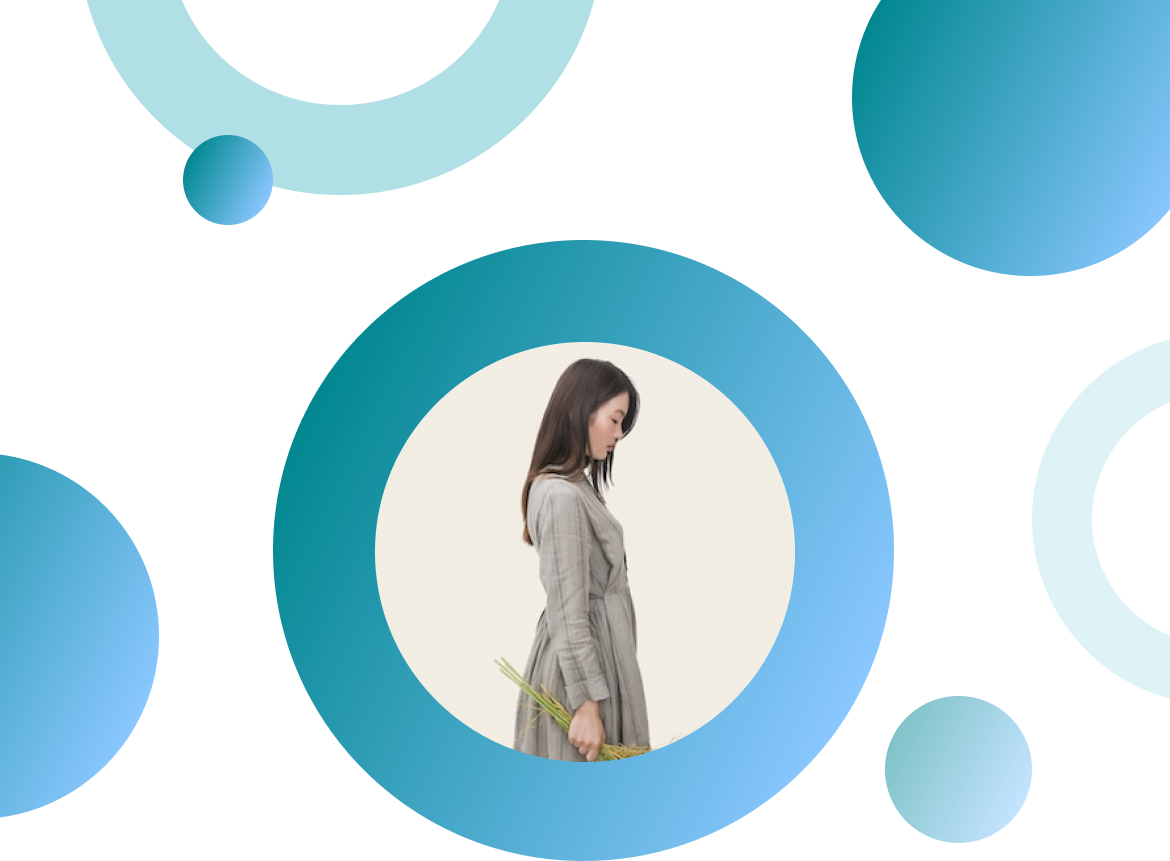
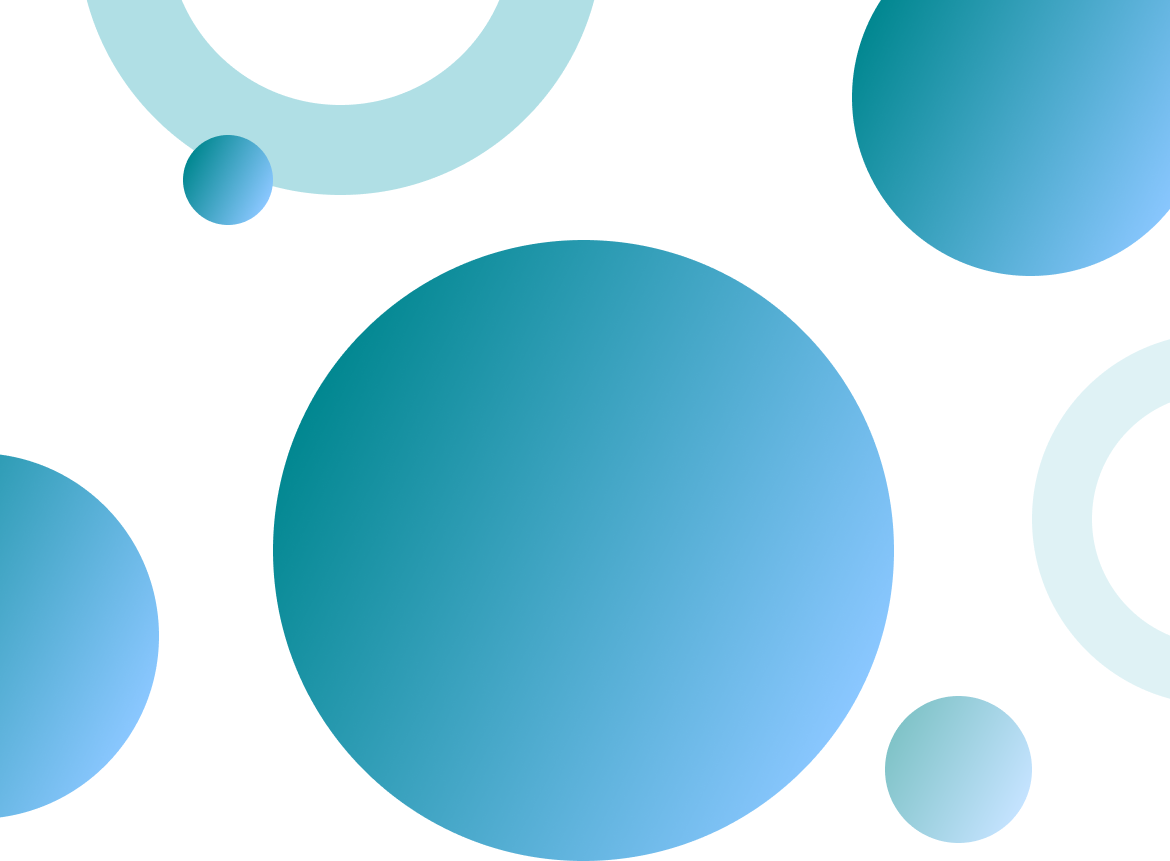
fixing profile screen

Changed region(s): [[0.3077, 0.3926, 0.6769, 0.9059]]

diff --git a/src/screens/ProfileScreen/ProfileScreen.tsx b/src/screens/ProfileScreen/ProfileScreen.tsx
@@ -1,11 +1,19 @@
 import colors from "configs/colors";
 import images from "configs/images";
 import * as React from "react";
-import { View, StyleSheet, Image, TouchableOpacity } from "react-native";
+import {
+  View,
+  StyleSheet,
+  Image,
+  TouchableOpacity,
+  ImageBackground,
+} from "react-native";
 import { Text, Space } from "components";
 import { ScrollView } from "react-native-gesture-handler";
 import icons from "configs/icons";
 import NavigationService from "utils/NavigationService";
+import { scale } from "utils/Responsive";
+import FastImage from "react-native-fast-image";
 
 const ProfileScreen = () => {
   const dataAkun = [
@@ -63,26 +71,23 @@ const ProfileScreen = () => {
   ];
 
   return (
-    // <SafeAreaView>
     <View style={styles.container}>
       <ScrollView>
-        <View style={{ height: 300 }}>
-          <Image
-            style={{ height: "100%", width: "100%" }}
-            source={images.profileBackground}
-          />
-          <View
+        <ImageBackground
+          source={images.profileBackground}
+          style={{ height: scale(287), paddingTop: scale(114) }}
+          resizeMode={"cover"}
+        >
+          <FastImage
+            source={images.profilePicture}
             style={{
-              position: "absolute",
               alignSelf: "center",
               borderRadius: 150,
-              backgroundColor: "red",
-              width: "36%",
-              height: "50%",
-              top: 119,
+              width: scale(140),
+              height: scale(140),
             }}
           />
-        </View>
+        </ImageBackground>
         <View style={styles.content}>
           <Space height={24} />
           <TouchableOpacity>
@@ -258,7 +263,6 @@ const ProfileScreen = () => {
         <Space height={20} />
       </ScrollView>
     </View>
-    // </SafeAreaView>
   );
 };
 

diff --git a/src/screens/EditProfileScreen/EditProfileScreen.tsx b/src/screens/EditProfileScreen/EditProfileScreen.tsx
@@ -186,7 +186,7 @@ const EditProfileScreen = () => {
             <View style={{ width: 140, height: 140 }}>
               <Image
                 // source={uploadLink ? { uri: uploadLink } : images.man}
-                source={images.witch}
+                source={images.profilePicture}
                 style={{ width: 140, height: 140, borderRadius: 70 }}
               />
               <View

diff --git a/src/configs/images.ts b/src/configs/images.ts
@@ -51,6 +51,7 @@ const images = {
   diamondGrey: require("../assets/images/diamond-grey.png"),
   exampleBook: require("../assets/images/example-book.png"),
   notification: require("../assets/images/notification.png"),
+  profilePicture: require("../assets/images/profile-picture.png"),
 };
 
 export default images;
